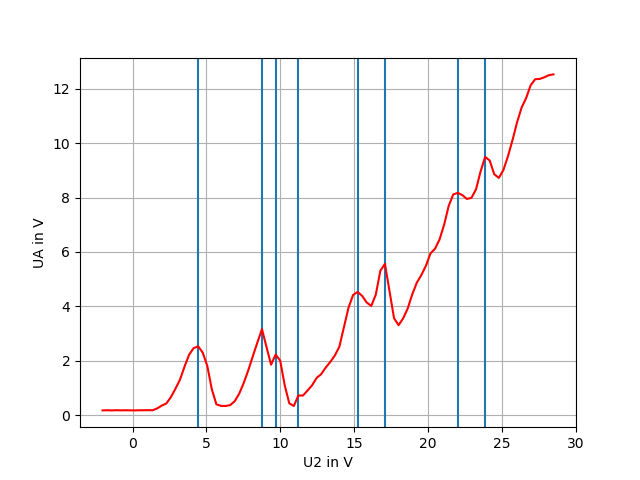
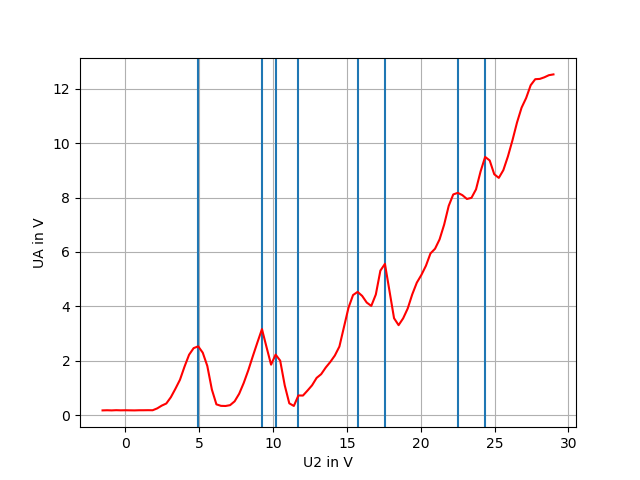
interferenz daten

diff --git a/franckhertz/fhcode.py b/franckhertz/fhcode.py
@@ -200,7 +200,7 @@ def aufgabe1_4b():
 def aufgabe2():
     #t,UA,U2
     hlines, data = ppk.readCSV("2aufgabe.csv",3)
-    data[2] = data[2] - UK
+    data[2] = data[2] - UK + 0.5
     U2 = data[2]
     UA = data[1]
 
@@ -221,5 +221,4 @@ def aufgabe2():
 
     return;
 
-aufgabe1_4b()
 aufgabe2()
